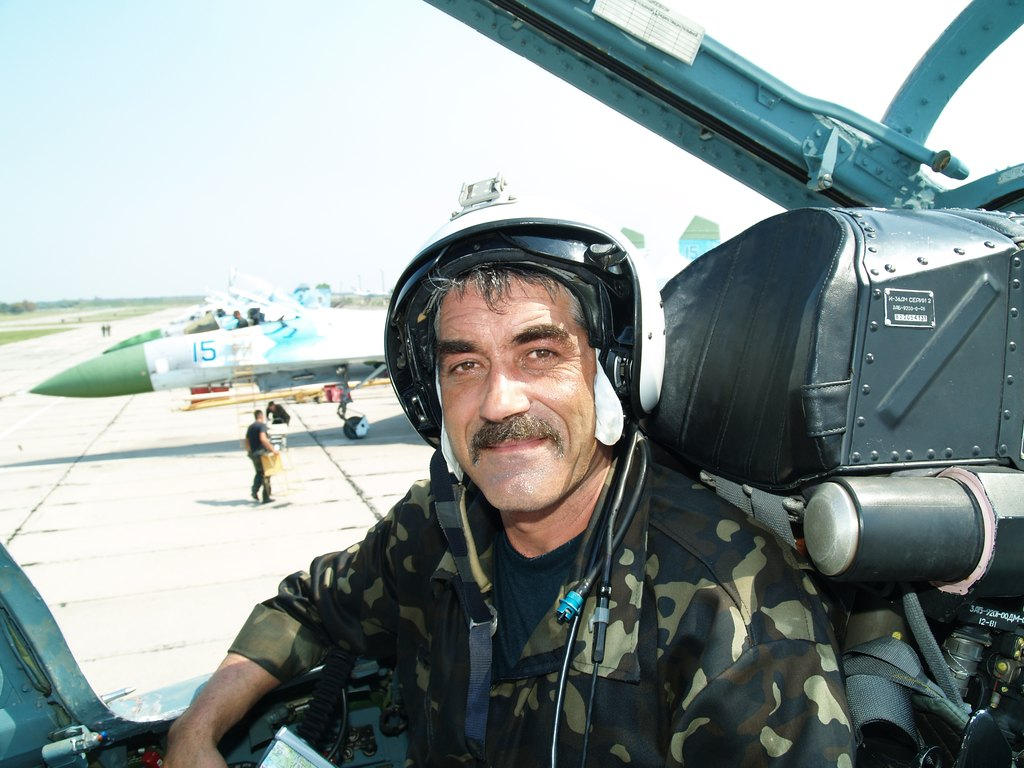
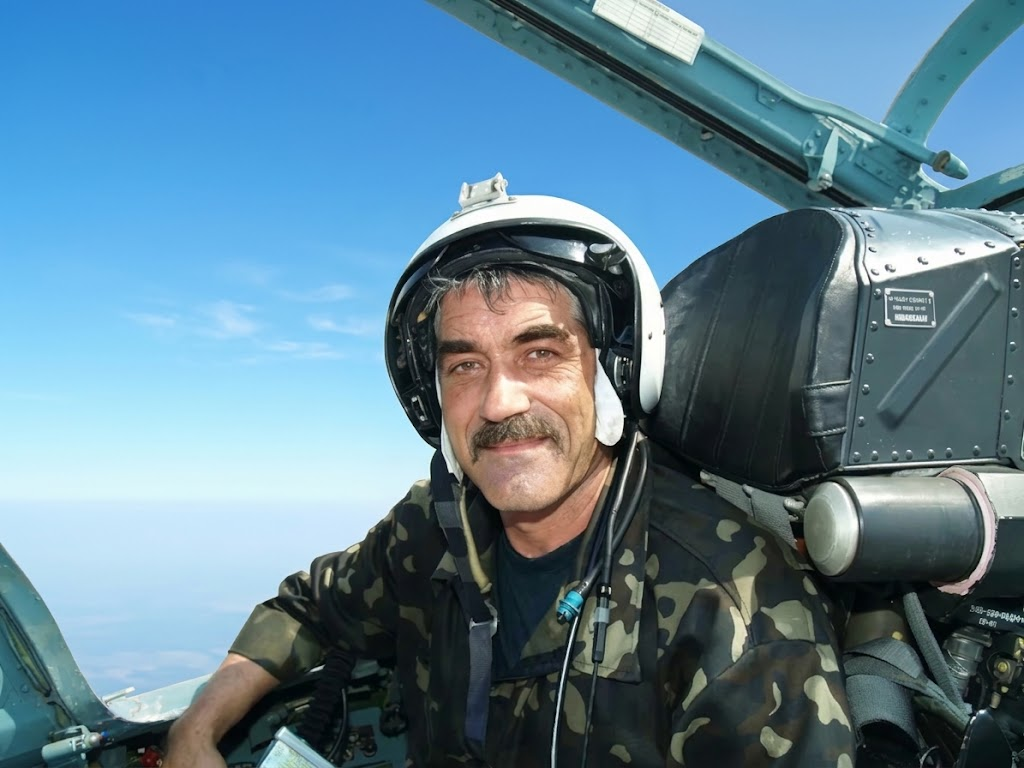
Approve Zasiadko, Babich and Chobanu; portraits for Zasiadko (AI-generated) and Babich (fair use, AI-enhanced), restored photo for Chobanu

diff --git a/src/content/people/uk/hlib-babich.md b/src/content/people/uk/hlib-babich.md
@@ -11,6 +11,15 @@ role: "Поет, автор пісень і воїн"
 summary: "Чому воїна, який пройшов шість ротацій на фронті, звали «Лєнтяй»? Гліб Бабіч - поет і автор пісень гурту Kozak System, серед них «Подай зброю», що стала неофіційним гімном його бригади. Пішов на фронт 2014 року, а 2022-го знову став до війська. Загинув під Ізюмом."
 fun_fact: "Майже все життя Гліб Бабіч говорив і писав російською, а під час служби на фронті перейшов на українську."
 birthplace: { name: "Миколаїв", region: mykolaiv, country: UA, lat: 46.975, lon: 31.995 }
+image:
+  src: ./images/hlib-babich.jpg
+  alt: "Гліб Бабіч у військовій формі й береті"
+  position: "50% 30%"
+  author: "Невідомий автор (ua.korrespondent.net)"
+  license: "Fair use"
+  source_url: "https://uk.wikipedia.org/wiki/%D0%91%D0%B0%D0%B1%D1%96%D1%87_%D0%93%D0%BB%D1%96%D0%B1_%D0%92%D0%B0%D0%BB%D0%B5%D1%80%D1%96%D0%B9%D0%BE%D0%B2%D0%B8%D1%87"
+  ai_edit: restored
+  fair_use: true
 key_accomplishments:
   - Автор понад 500 віршів і пісень; збірка «Вірші та пісні» (видавництво «Білка», 2021) - у десятці найкращих книжок 2021 року від ветеранів за версією АрміяInform
   - Автор текстів семи пісень гурту Kozak System, серед них «Подай зброю», «Мольфар», «Ті, що тримають небо над Різдвом», «Не покинь»
@@ -27,7 +36,8 @@ sources:
   - title: Вікіпедія - Бабіч Гліб Валерійович
     url: https://uk.wikipedia.org/wiki/Бабіч_Гліб_Валерійович
 related: []
-status: draft
+status: approved
+published: 2026-10-18T01:51:10Z
 ---
 
 ## Чому «Лєнтяй»?

diff --git a/src/content/people/uk/oleksandr-zasiadko.md b/src/content/people/uk/oleksandr-zasiadko.md
@@ -19,6 +19,15 @@ places:
   - { name: "Санкт-Петербург", lat: 59.939, lon: 30.316, note: "кадетський корпус; випробування ракет і їхнє серійне виробництво" }
   - { name: "Браїлів (Бреїла)", lat: 45.27, lon: 27.957, note: "облога турецької фортеці з ракетами, 1828" }
   - { name: "Харків", lat: 49.993, lon: 36.231, note: "останні роки життя; тут помер 1837 року" }
+image:
+  src: ./images/oleksandr-zasiadko.jpg
+  alt: "Уявний портрет Олександра Засядька в темно-зеленому мундирі із золотим шиттям і хрестами, створений ШІ за давнім рисованим портретом"
+  position: "50% 30%"
+  author: "Невідомий автор"
+  license: "Fair use"
+  source_url: "https://lenta.ua/vid-kozatskih-raket-do-haymarsiv-yak-vihodets-iz-poltavshchini-200-rokiv-tomu-stvoriv-prototip-suchasnoyi-rszv-150368/"
+  ai_edit: generated
+  fair_use: true
 key_accomplishments:
   - "З 1815 року розробив бойові порохові ракети, запалювальні й фугасні, з дальністю понад 2 кілометри"
   - "Сконструював пускові станки для однієї ракети і для залпу з шести ракет"
@@ -35,7 +44,8 @@ sources:
   - title: "Gazetteer of Planetary Nomenclature (IAU, USGS) - Zasyadko"
     url: "https://planetarynames.wr.usgs.gov/Feature/6706"
 related: []
-status: draft
+status: approved
+published: 2026-10-18T01:51:10Z
 ---
 
 ## Чому горіли копиці?

diff --git a/src/content/people/uk/stepan-chobanu.md b/src/content/people/uk/stepan-chobanu.md
@@ -15,6 +15,7 @@ image:
   src: ./images/stepan-chobanu.jpg
   alt: "Степан Чобану в льотному шоломі в кабіні винищувача, 2008"
   position: "50% 40%"
+  ai_edit: restored
   author: "Ivanstepanivch"
   license: "CC BY-SA 4.0"
   source_url: "https://commons.wikimedia.org/wiki/File:МайорЧобану.jpg"
@@ -32,7 +33,8 @@ sources:
   - title: "АрміяInform - Віддав життя в битві за українське небо"
     url: "https://armyinform.com.ua/2022/03/08/viddav-zhyttya-v-bytvi-za-ukrayinske-nebo/"
 related: [oleksandr-oksanchenko]
-status: draft
+status: approved
+published: 2026-10-18T01:51:10Z
 ---
 
 ## Над Хрещатиком

diff --git a/src/content/people/en/hlib-babich.md b/src/content/people/en/hlib-babich.md
@@ -11,6 +11,7 @@ key_accomplishments:
   - "Co-founder of the volunteer initiative “Res_Publica. Brothers in Arms”, which helped Ukrainian army units"
   - "After 24 February 2022, served in the Kyiv Territorial Defence; worked on fielding the mobile optical-electronic reconnaissance systems “Loki”"
 birthplace_name: "Mykolaiv"
+image_alt: "Hlib Babich in military uniform and a beret"
 ---
 
 ## Why “Lazybones”?

diff --git a/src/content/people/en/oleksandr-zasiadko.md b/src/content/people/en/oleksandr-zasiadko.md
@@ -14,6 +14,7 @@ key_accomplishments:
   - "Founded an artillery school and became its first director"
   - "A lunar crater was named after him (1976)"
 birthplace_name: "Liutenka, Poltava Oblast"
+image_alt: "Imagined portrait of Oleksandr Zasiadko in a dark green uniform with gold embroidery and crosses, made by AI from an old drawn portrait"
 ---
 
 ## Why were the haystacks burning?
